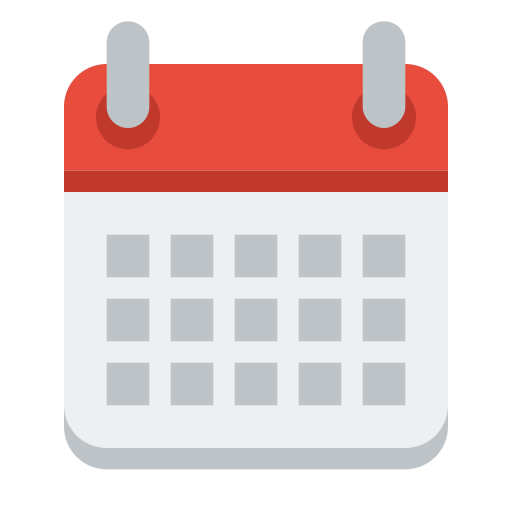
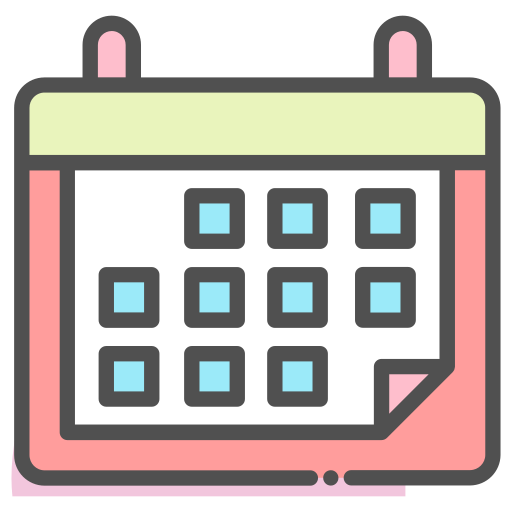
journal page styling

diff --git a/static/js/habits.jsx b/static/js/habits.jsx
@@ -76,12 +76,12 @@ function HabitItem(props) {
 
   function deleteHabit() {
     fetch(`/habits/${props.id}`, {
-      method: 'DELETE'
+      method: 'DELETE',
     })
-    .then((response) => response.json())
-    .then(response => {
-      props.deleteHabit(props.index);
-    });
+      .then((response) => response.json())
+      .then(response => {
+        props.deleteHabit(props.index);
+      });
   }
 
   function confirmUpdateHabit() {
@@ -91,11 +91,11 @@ function HabitItem(props) {
         'Content-Type': 'application/json',
       },
       body: JSON.stringify({ habit, frequency })
-    }).then((response) => {
-      response.json().then(response => {
+    })
+      .then((response) => response.json())
+      .then(response => {
         props.updateHabit(props.index, response.id, habit, frequency);
       });
-    });
   }
 
   function toggleCompletion(event) {
@@ -108,8 +108,9 @@ function HabitItem(props) {
         'Content-Type': 'application/json',
       },
       body: JSON.stringify({ value, checked })
-    }).then((response) => {
-      response.json().then(response => {
+    })
+      .then((response) => response.json())
+      .then(response => {
         const currentCompletions = [...completions];
 
         if (checked) {
@@ -121,7 +122,6 @@ function HabitItem(props) {
         setCompletions(currentCompletions);
         setCount(currentCompletions.length);
       });
-    });
   }
 
   return (
@@ -220,13 +220,11 @@ const HabitsContainer = (props) => {
         'Content-Type': 'application/json',
       },
       body: JSON.stringify({ habit, frequency })
-    }).then((response) => {
-      response.json().then(response => {
-        // setHabit('');
-        // setFrequency('');
+    })
+      .then((response) => response.json())
+      .then(response => {
         addHabit(response.id, habit, frequency);
       });
-    });
   }
 
   React.useEffect(() => {

diff --git a/templates/journal_page.html b/templates/journal_page.html
@@ -8,7 +8,7 @@
 {% block body %}
 <nav class="navbar navbar-custom">
   <a class="navbar-brand" href="/profile">
-    <img src="/static/img/journal-icon.jpg" width="30" height="30" class="d-inline-block align-top" alt="">
+    <img src="/static/img/journal-icon1.png"  height="40" class="d-inline-block align-top" alt="">
     Pillowbook
   </a>
   <div>
@@ -27,17 +27,16 @@
       <div id="weekday"></div>
     </h3>
     <div style="float: right">
-      <img src="/static/img/calendar.png" height=45 />
+      <img src="/static/img/calendar.png" height=63 />
     </div>
   </div>
 
 
   <h4>Would you like a prompt to help you get started?</h4>
-  <p>
+  <div>
     <button id="get-prompt-button" class="btn btn-primary mt-2">Prompt</button>
-  </p>
-  <div id="prompt-text"></div>
-  <br>
+  </div>
+  </br>
 
   <form action="/journal/{{ request.args.get('date') }}" method="POST"> 
     <textarea name="journal_text" id="journal-text" 

diff --git a/static/css/journal_page.css b/static/css/journal_page.css
@@ -26,7 +26,11 @@ body {
     background-color: rgb(235, 225, 238);
 }
 
-.navbar-custom .navbar-brand,
+.navbar-custom .navbar-brand {
+    color: black;
+    font-size: 30px;
+}
+
 .navbar-custom .nav-link {
     color: black;
 }
@@ -38,4 +42,17 @@ textarea {
     line-height: 25px;
     padding: 2px 10px;
     border: solid 1px #ddd;
+}
+
+h3 {
+    color:rgb(34, 64, 172);
+}
+
+#weekday {
+    color:rgb(114, 169, 231);
+}
+
+img {
+    padding-right: 1px;
+    padding-left: 15px;
 }

diff --git a/templates/profile_page.html b/templates/profile_page.html
@@ -11,7 +11,7 @@
 {% block body %}
 <nav class="navbar navbar-custom">
   <a class="navbar-brand" href="/profile">
-    <img src="/static/img/journal-icon.jpg" width="30" height="30" class="d-inline-block align-top" alt="">
+    <img src="/static/img/journal-icon.jpg" height="40" class="d-inline-block align-top" alt="">
     Pillowbook
   </a>
   <div>

diff --git a/static/css/profile_page.css b/static/css/profile_page.css
@@ -25,7 +25,11 @@ body {
     background-color: rgb(235, 225, 238);
 }
 
-.navbar-custom .navbar-brand,
+.navbar-custom .navbar-brand {
+    color: black;
+    font-size: 30px;
+}
+
 .navbar-custom .nav-link {
     color: black;
 }
